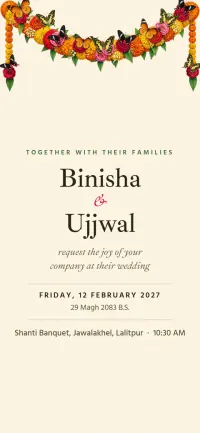
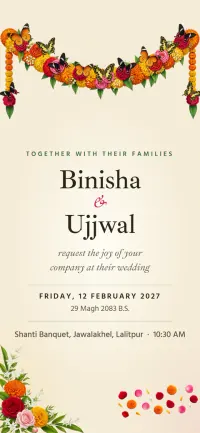
fix(vasant): crisp butterflies, safe zone, ceremony names on phone, fuller decoration
- Butterflies re-cut at 900px with a cleaned, feathered alpha; wings flap by 2D scaleX (crisp on every GPU)
- Phone: the garland starts below the language and music buttons; each ceremony's name sticks under the bloom band
- Decoration in the gaps: a flower corner and petal scatter on the first screen, gold botanical rules, petals
  between ceremony cards, a hanging marigold-and-rose strand beside the bloom window on desktop; tighter rhythm
- Warmer first screen: paper grain and a soft light on the names

diff --git a/src/themes/vasant/vasant.css b/src/themes/vasant/vasant.css
@@ -37,24 +37,23 @@ body.theme-vasant {
 .theme-vasant .su-btn--line { background: transparent; }
 .theme-vasant .su-link { color: #A3134C; }
 
-/* ───────── the butterflies (rigged: two wings that turn about the body) ───────── */
-.va-bf { position: absolute; display: block; aspect-ratio: 1 / var(--ar, 0.75); pointer-events: none; }
-.va-bf__rig { position: absolute; inset: 0; perspective: 320px; transform-style: preserve-3d; }
+/* ───────── the butterflies (rigged: two wings that fold toward the body) ─────────
+   A flap is a 2D scaleX about the body: crisp on every GPU (a 3D rotateY rasterises the cut-out at low quality on
+   many phones), and the foreshortening reads the same at this size. */
+.va-bf { position: absolute; display: block; aspect-ratio: 1 / var(--ar, 0.75); pointer-events: none; backface-visibility: hidden; }
+.va-bf__rig { position: absolute; inset: 0; }
 .va-bf__w, .va-bf__b { position: absolute; top: 0; height: 100%; display: block; max-width: none; user-select: none; }
-.va-bf__w { width: 50%; backface-visibility: visible; }
-.va-bf__w--l { left: 0; transform-origin: 100% 50%; transform: rotateY(16deg); }
-.va-bf__w--r { left: 50%; transform-origin: 0% 50%; transform: rotateY(-16deg); }
+.va-bf__w { width: 50%; transform: scaleX(0.94); }
+.va-bf__w--l { left: 0; transform-origin: 100% 50%; }
+.va-bf__w--r { left: 50%; transform-origin: 0% 50%; }
 .va-bf__b { left: 50%; width: 8.6%; translate: -50% 0; }
+.va-bf.is-fly, .va-bf.is-seen.va-perch { will-change: transform; }
 /* resting: the slow open-and-close of a basking butterfly, only while on screen */
-.va-bf.is-seen .va-bf__w--l { animation: va-rest-l var(--rest, 3.4s) cubic-bezier(0.45, 0, 0.55, 1) var(--d, 0s) infinite alternate; }
-.va-bf.is-seen .va-bf__w--r { animation: va-rest-r var(--rest, 3.4s) cubic-bezier(0.45, 0, 0.55, 1) var(--d, 0s) infinite alternate; }
-@keyframes va-rest-l { 0%, 35% { transform: rotateY(14deg); } 100% { transform: rotateY(60deg); } }
-@keyframes va-rest-r { 0%, 35% { transform: rotateY(-14deg); } 100% { transform: rotateY(-60deg); } }
+.va-bf.is-seen .va-bf__w { animation: va-rest var(--rest, 3.4s) cubic-bezier(0.45, 0, 0.55, 1) var(--d, 0s) infinite alternate; }
+@keyframes va-rest { 0%, 35% { transform: scaleX(0.96); } 100% { transform: scaleX(0.5); } }
 /* flying: quick full strokes */
-.va-bf.is-fly .va-bf__w--l { animation: va-fly-l 0.17s cubic-bezier(0.45, 0, 0.55, 1) infinite alternate; }
-.va-bf.is-fly .va-bf__w--r { animation: va-fly-r 0.17s cubic-bezier(0.45, 0, 0.55, 1) infinite alternate; }
-@keyframes va-fly-l { from { transform: rotateY(2deg); } to { transform: rotateY(78deg); } }
-@keyframes va-fly-r { from { transform: rotateY(-2deg); } to { transform: rotateY(-78deg); } }
+.va-bf.is-fly .va-bf__w { animation: va-fly 0.16s cubic-bezier(0.45, 0, 0.55, 1) infinite alternate; }
+@keyframes va-fly { from { transform: scaleX(1); } to { transform: scaleX(0.16); } }
 
 /* ───────── gate: transparent; the words over the paper, the garland seen through ───────── */
 .theme-vasant .su-gate { background: transparent; }
@@ -67,8 +66,14 @@ body.theme-vasant {
 body.su-locked .va-hero .su-in { opacity: 0; }
 
 /* ───────── first screen ───────── */
-.va-hero { display: flex; flex-direction: column; align-items: center; justify-content: flex-start; padding: 0 16px 92px; text-align: center; }
-.va-hero > .va-hero__text { flex: 1; justify-content: center; padding-bottom: 5vh; }
+.va-hero { display: flex; flex-direction: column; align-items: center; justify-content: flex-start; padding: 0 16px clamp(150px, 20vh, 200px); text-align: center;
+  background-image: radial-gradient(ellipse 62% 46% at 50% 56%, rgba(255, 253, 245, 0.95), rgba(255, 253, 245, 0) 72%), radial-gradient(ellipse 55% 38% at 0% 100%, rgba(240, 184, 45, 0.16), rgba(240, 184, 45, 0) 72%), radial-gradient(ellipse 50% 34% at 100% 100%, rgba(194, 24, 91, 0.07), rgba(194, 24, 91, 0) 72%), var(--va-noise), var(--va-noise); }
+.va-hero > .va-garland, .va-hero > .va-hero__text { position: relative; z-index: 1; }
+.va-hero__decor { position: absolute; inset: 0; z-index: 0; pointer-events: none; transition: opacity 0.9s cubic-bezier(0.22, 0.8, 0.24, 1) 0.6s; }
+body.su-locked .va-hero__decor { opacity: 0; transition: none; }
+.va-corner-fl { position: absolute; left: -1.5%; bottom: -1%; width: min(300px, 44vw); height: auto; }
+.va-hero__petals { position: absolute; right: 1%; bottom: 4%; width: min(320px, 40vw); height: auto; rotate: -5deg; }
+.va-hero > .va-hero__text { flex: 1; justify-content: center; }
 .va-garland { position: relative; width: min(780px, 56vw); margin: 0 auto; }
 .va-garland__img { display: block; width: 100%; height: auto; }
 .va-garland__bfs { position: absolute; inset: 0; }
@@ -139,12 +144,10 @@ body.su-locked .va-hero .su-in { opacity: 0; }
 .va-cd__n .l-ne { font: 500 0.82em/1.2 var(--su-f-deva); }
 .va-cd__l { display: block; margin-top: 6px; font: 600 11px/1.2 var(--su-f-body); letter-spacing: 0.18em; text-transform: uppercase; color: var(--va-ink-2); }
 .va-cd__l .l-ne { font-size: 14px; letter-spacing: 0; text-transform: none; }
-.va-count__bf { position: relative; flex: none; width: clamp(64px, 14vw, 96px); aspect-ratio: 560 / 463; }
+.va-count__bf { position: relative; flex: none; width: clamp(64px, 14vw, 96px); aspect-ratio: 900 / 744; }
 .va-count__bf .va-bf { inset: 0; width: 100%; }
-.va-beat.is-beat .va-bf__w--l { animation: va-beat-l 0.62s cubic-bezier(0.3, 0, 0.3, 1) 1; }
-.va-beat.is-beat .va-bf__w--r { animation: va-beat-r 0.62s cubic-bezier(0.3, 0, 0.3, 1) 1; }
-@keyframes va-beat-l { 0% { transform: rotateY(16deg); } 40% { transform: rotateY(70deg); } 100% { transform: rotateY(16deg); } }
-@keyframes va-beat-r { 0% { transform: rotateY(-16deg); } 40% { transform: rotateY(-70deg); } 100% { transform: rotateY(-16deg); } }
+.va-beat.is-beat .va-bf__w { animation: va-beat 0.62s cubic-bezier(0.3, 0, 0.3, 1) 1; }
+@keyframes va-beat { 0% { transform: scaleX(0.94); } 40% { transform: scaleX(0.28); } 100% { transform: scaleX(0.94); } }
 .va-count__done { font: 400 italic 26px/1.4 var(--su-f-display); color: var(--va-leaf); }
 
 /* families: one plate, two pressed sprays, two herbarium labels */
@@ -189,7 +192,7 @@ body.su-locked .va-hero .su-in { opacity: 0; }
 .va-win__fl { font: 400 italic 21px/1.3 var(--su-f-display); color: var(--va-leaf); }
 .va-win__fl .l-ne { font: 600 18px/1.5 var(--va-deva-display); font-style: normal; }
 .va-evs { margin: 0; padding: 0 0 0 clamp(20px, 4vw, 64px); list-style: none; }
-.va-ev { display: flex; align-items: center; min-height: 88vh; min-height: 88svh; }
+.va-ev { display: flex; flex-direction: column; justify-content: center; min-height: 74vh; min-height: 74svh; }
 .va-ev__card { width: 100%; max-width: 500px; padding: clamp(26px, 3vw, 40px); background: var(--va-sheet); background-image: var(--va-noise); border: 1px solid rgba(42, 36, 21, 0.12); border-radius: 4px; box-shadow: 0 18px 40px -30px rgba(70, 52, 14, 0.5); }
 .va-ev__no { margin: 0 0 10px; font: 600 11.5px/1.4 var(--su-f-body); letter-spacing: 0.24em; text-transform: uppercase; color: var(--va-leaf); }
 .va-ev__no .l-ne { font-size: 15px; letter-spacing: 0; }
@@ -272,14 +275,17 @@ html[data-lang='ne'] .va-close__en { display: none; }
   .va-win__cap { align-items: flex-start; text-align: left; }
   .va-win__fl { font-size: 18px; }
   .va-evs { padding: 0; }
-  .va-ev { align-items: flex-start; min-height: 76svh; padding-top: 8svh; }
+  .va-ev { justify-content: flex-start; min-height: 0; padding-top: 4svh; }
   .va-ev__card { max-width: none; }
+  /* the ceremony's name stays readable just under the bloom band while its card scrolls */
+  .va-ev__head { position: sticky; top: calc(50svh + 2px); z-index: 2; margin: -6px -8px 0; padding: 6px 8px 8px; background-color: var(--va-sheet); background-image: var(--va-noise); }
+  .va-strand { display: none; }
 }
 @media (max-width: 719px) {
   .va-sec { padding: 76px 16px; }
-  .va-hero { padding: 0 16px 84px; }
+  .va-hero { padding: 54px 16px clamp(130px, 34vw, 170px); } /* the garland starts under the language and music buttons */
   .va-garland { width: 100vw; margin: 0 -16px; }
-  .va-gate { padding: 46vw 0 190px; }
+  .va-gate { padding: calc(46vw + 54px) 0 190px; }
   .va-tip__sheet { grid-template-columns: minmax(0, 1fr) 24%; padding: 20px 14px 20px 20px; gap: 10px; }
   .va-fam { grid-template-columns: 1fr; gap: 22px; padding: 22px 18px; }
   .va-fam__col { flex-direction: row; align-items: center; gap: 14px; }
@@ -300,3 +306,12 @@ body.va-still .va-bf .va-bf__w { animation: none !important; transform: none; }
   .va-bf .va-bf__w { animation: none !important; transform: none; }
   .va-plate, .va-win__cap { transition: none; }
 }
+
+/* ───────── decoration in the gaps: gold rules, petals, the hanging strand ───────── */
+.va-rule { display: block; width: min(220px, 58vw); height: auto; margin: 0 auto; color: #A8833A; }
+.va-head .va-rule { margin-bottom: 6px; }
+.va-ev__gap { display: flex; flex-direction: column; align-items: center; gap: 14px; width: 100%; max-width: 500px; padding: 40px 0 8px; }
+.va-petals { display: block; width: min(300px, 72%); height: auto; }
+.va-strand { position: absolute; top: 0; bottom: 0; right: max(10px, calc(50% - 712px)); width: clamp(48px, 4.6vw, 70px); pointer-events: none; }
+.va-strand img { position: sticky; top: 72px; display: block; width: 100%; height: calc(100vh - 96px); object-fit: contain; object-position: 50% 0; }
+.va-bloom { position: relative; }

diff --git a/src/themes/vasant/main.js b/src/themes/vasant/main.js
@@ -11,7 +11,7 @@
 import manifest from './slots.js';
 import { mountSuite } from '../_suite/suite.js';
 import './vasant.css'; // after the suite's CSS, so the theme wins ties
-import { ART, SPECIES, butterfly, garland, FLOWERS, flowersFor, ROMAN } from './parts.js';
+import { ART, SPECIES, butterfly, garland, FLOWERS, flowersFor, ROMAN, RULE, petals } from './parts.js';
 
 const isPhone = () => window.matchMedia('(max-width: 899px)').matches;
 
@@ -21,6 +21,10 @@ function hero(ctx) {
   const bsLine = BS.full.short?.en ? (/B\.S\./.test(BS.full.short.en) ? BS.full.short.en : `${BS.full.short.en} B.S.`) : BS.full.en;
   return `
     ${garland()}
+    <div class="va-hero__decor" aria-hidden="true">
+      <img class="va-corner-fl" src="${ART}corner-sm.webp" srcset="${ART}corner-sm.webp 700w, ${ART}corner.webp 1300w" sizes="(max-width: 719px) 46vw, 300px" width="1300" height="1372" alt="" decoding="async" />
+      <img class="va-hero__petals" src="${ART}petals-sm.webp" srcset="${ART}petals-sm.webp 700w, ${ART}petals.webp 1400w" sizes="(max-width: 719px) 52vw, 340px" width="1400" height="514" alt="" decoding="async" />
+    </div>
     <div class="va-hero__text">
       ${on(txt('hero.title')) ? `<p class="va-kicker su-in">${bi(txt('hero.title'))}</p>` : ''}
       <h1 class="va-names su-in"><span class="va-names__n">${bi(c.bride.name)}</span><span class="va-names__amp" aria-hidden="true">&amp;</span><span class="sr-only"> and </span><span class="va-names__n">${bi(c.groom.name)}</span></h1>
@@ -145,7 +149,7 @@ function wing(c, w, h, dpr, hint) {
 function page(ctx) {
   const { bi, esc, txt, on, AD, BS, c, config, placeLine, mainEv } = ctx;
   const P = ctx.parts;
-  const hd = (id, t, kicker, cls = '') => `<header class="va-head su-rise ${cls}">${kicker && on(kicker) ? `<p class="va-kicker">${bi(kicker)}</p>` : ''}<h2 class="va-h2" id="${id}">${bi(t)}</h2></header>`;
+  const hd = (id, t, kicker, cls = '') => `<header class="va-head su-rise ${cls}">${RULE}${kicker && on(kicker) ? `<p class="va-kicker">${bi(kicker)}</p>` : ''}<h2 class="va-h2" id="${id}">${bi(t)}</h2></header>`;
   const spray = (k, cls = '', sizes = '160px') => `<img class="va-spray ${cls}" src="${ART}spray-${k}-sm.webp" srcset="${ART}spray-${k}-sm.webp 480w, ${ART}spray-${k}.webp 900w" sizes="${sizes}" alt="" loading="lazy" decoding="async" />`;
   const corners = '<i class="va-corner va-corner--tl"></i><i class="va-corner va-corner--tr"></i><i class="va-corner va-corner--bl"></i><i class="va-corner va-corner--br"></i>';
   const bsDeva = BS.day && BS.month ? `${BS.month} ${BS.day} गते, ${BS.year}` : BS.full.ne;
@@ -224,8 +228,8 @@ function page(ctx) {
   const evs = P.events.map((v, i) => `
       <li class="va-ev" id="ev-${esc(v.id)}" data-i="${i}">
         <article class="va-ev__card">
-          <p class="va-ev__no">${bi({ en: `Plate ${ROMAN[i] || i + 1} · ${FLOWERS[keys[i]].name.en}`, ne: `चित्र ${ctx.neNum(String(i + 1))} · ${FLOWERS[keys[i]].name.ne}` })}</p>
-          <h3 class="va-ev__title">${bi(v.title)}</h3>
+          <header class="va-ev__head"><p class="va-ev__no">${bi({ en: `Plate ${ROMAN[i] || i + 1} · ${FLOWERS[keys[i]].name.en}`, ne: `चित्र ${ctx.neNum(String(i + 1))} · ${FLOWERS[keys[i]].name.ne}` })}</p>
+          <h3 class="va-ev__title">${bi(v.title)}</h3></header>
           <p class="va-ev__when"><span class="va-ev__ad">${bi({ en: v.ad.full.en, ne: v.bs.full.ne })}</span><span class="va-ev__bs">${bi({ en: v.bs.full.en, ne: v.ad.full.ne })}</span></p>
           <p class="va-ev__time">${bi(v.time)}</p>
           ${v.blurb ? `<p class="va-ev__blurb">${bi(v.blurb)}</p>` : ''}
@@ -233,10 +237,12 @@ function page(ctx) {
           ${v.dress.colors.length || v.dress.text?.en || v.dress.text?.ne ? `<p class="va-ev__dress">${v.dress.colors.length ? `<span class="su-sw" aria-hidden="true">${v.dress.colors.map((col) => `<i style="background:${col}"></i>`).join('')}</span>` : ''}<span>${bi(v.dress.text?.en || v.dress.text?.ne ? v.dress.text : P.UI.wear)}</span></p>` : ''}
           ${v.rituals.length ? `<details class="va-order"><summary>${bi(P.UI.order)}</summary><ol>${v.rituals.map((r) => `<li><span>${bi(r.time)}</span><span>${bi(r.title)}</span></li>`).join('')}</ol></details>` : ''}
         </article>
+        ${i < P.events.length - 1 ? `<div class="va-ev__gap" aria-hidden="true">${RULE}${petals()}</div>` : ''}
       </li>`).join('');
   const progSec = `
   <section class="su-sec va-sec va-bloom" id="programme" aria-labelledby="prog-title">
     ${hd('prog-title', txt('prog.title'), txt('prog.kicker'))}
+    <div class="va-strand" aria-hidden="true"><img src="${ART}strand.webp" width="177" height="1500" alt="" loading="lazy" decoding="async" /></div>
     <div class="va-bloom__grid">
       <div class="va-win" aria-hidden="true">
         <div class="va-win__in">

diff --git a/src/themes/vasant/parts.js b/src/themes/vasant/parts.js
@@ -1,11 +1,11 @@
 // Vasant · shared pieces: the rigged butterflies, the garland they rest on, the flower each ceremony gets.
 // Butterflies are rigged, not videos: each is three cut-out parts (left wing, right wing, body) painted in Canva.
-// The wings turn about the body (rotateY), so a flap is a transform only and costs nothing to the main thread.
+// The wings fold toward the body (a 2D scaleX), so a flap is a transform only, crisp and cheap on any phone.
 
 export const ART = '/themes/vasant/art/';
 
 /** the three species, with the height/width of their cut-out */
-export const SPECIES = { lime: 463 / 560, crimson: 411 / 560, tiger: 406 / 560 };
+export const SPECIES = { lime: 744 / 900, crimson: 660 / 900, tiger: 653 / 900 };
 
 /** One rigged butterfly. `style` places it (left/top/width/rotate custom properties). Decorative: aria-hidden. */
 export function butterfly(sp, { cls = '', style = '', eager = false } = {}) {
@@ -77,5 +77,11 @@ export function flowersFor(events) {
     used.clear(); const again = ORDER[0]; used.add(again); return again;
   });
 }
+
+/** A slim gold botanical rule: a hairline with leaf pairs and a bud in the middle (decoration, aria-hidden). */
+export const RULE = `<svg class="va-rule" viewBox="0 0 240 24" aria-hidden="true" focusable="false"><path d="M10 12h88M142 12h88" fill="none" stroke="currentColor" stroke-width=".9" stroke-linecap="round"/><g fill="currentColor"><g transform="rotate(-30 70 12)"><path d="M70 12c4-6 10-8 15-7c-3 5 -8 7 -15 7z"/><path d="M70 12c4 6 10 8 15 7c-3-5 -8-7 -15-7z" opacity=".75"/></g><g transform="rotate(30 170 12)"><path d="M170 12c-4-6 -10-8 -15-7c3 5 8 7 15 7z"/><path d="M170 12c-4 6 -10 8 -15 7c3-5 8-7 15-7z" opacity=".75"/></g><g transform="rotate(-30 44 12)"><path d="M44 12c4-6 10-8 15-7c-3 5 -8 7 -15 7z"/><path d="M44 12c4 6 10 8 15 7c-3-5 -8-7 -15-7z" opacity=".75"/></g><g transform="rotate(30 196 12)"><path d="M196 12c-4-6 -10-8 -15-7c3 5 8 7 15 7z"/><path d="M196 12c-4 6 -10 8 -15 7c3-5 8-7 15-7z" opacity=".75"/></g><ellipse cx="120" cy="6.5" rx="2.6" ry="4.6"/><ellipse cx="120" cy="17.5" rx="2.6" ry="4.6"/><ellipse cx="114.5" cy="12" rx="4.6" ry="2.6"/><ellipse cx="125.5" cy="12" rx="4.6" ry="2.6"/><circle cx="120" cy="12" r="2.2" fill="#C2185B"/><circle cx="10" cy="12" r="1.5"/><circle cx="230" cy="12" r="1.5"/></g></svg>`;
+
+/** loose petals and marigold heads, laid in a gap (never behind text) */
+export const petals = (cls = '') => `<img class="va-petals ${cls}" src="${ART}petals-sm.webp" srcset="${ART}petals-sm.webp 700w, ${ART}petals.webp 1400w" sizes="(max-width: 719px) 86vw, 560px" width="1400" height="514" alt="" loading="lazy" decoding="async" aria-hidden="true" />`;
 
 export const ROMAN = ['I', 'II', 'III', 'IV', 'V', 'VI', 'VII', 'VIII', 'IX', 'X', 'XI', 'XII'];
